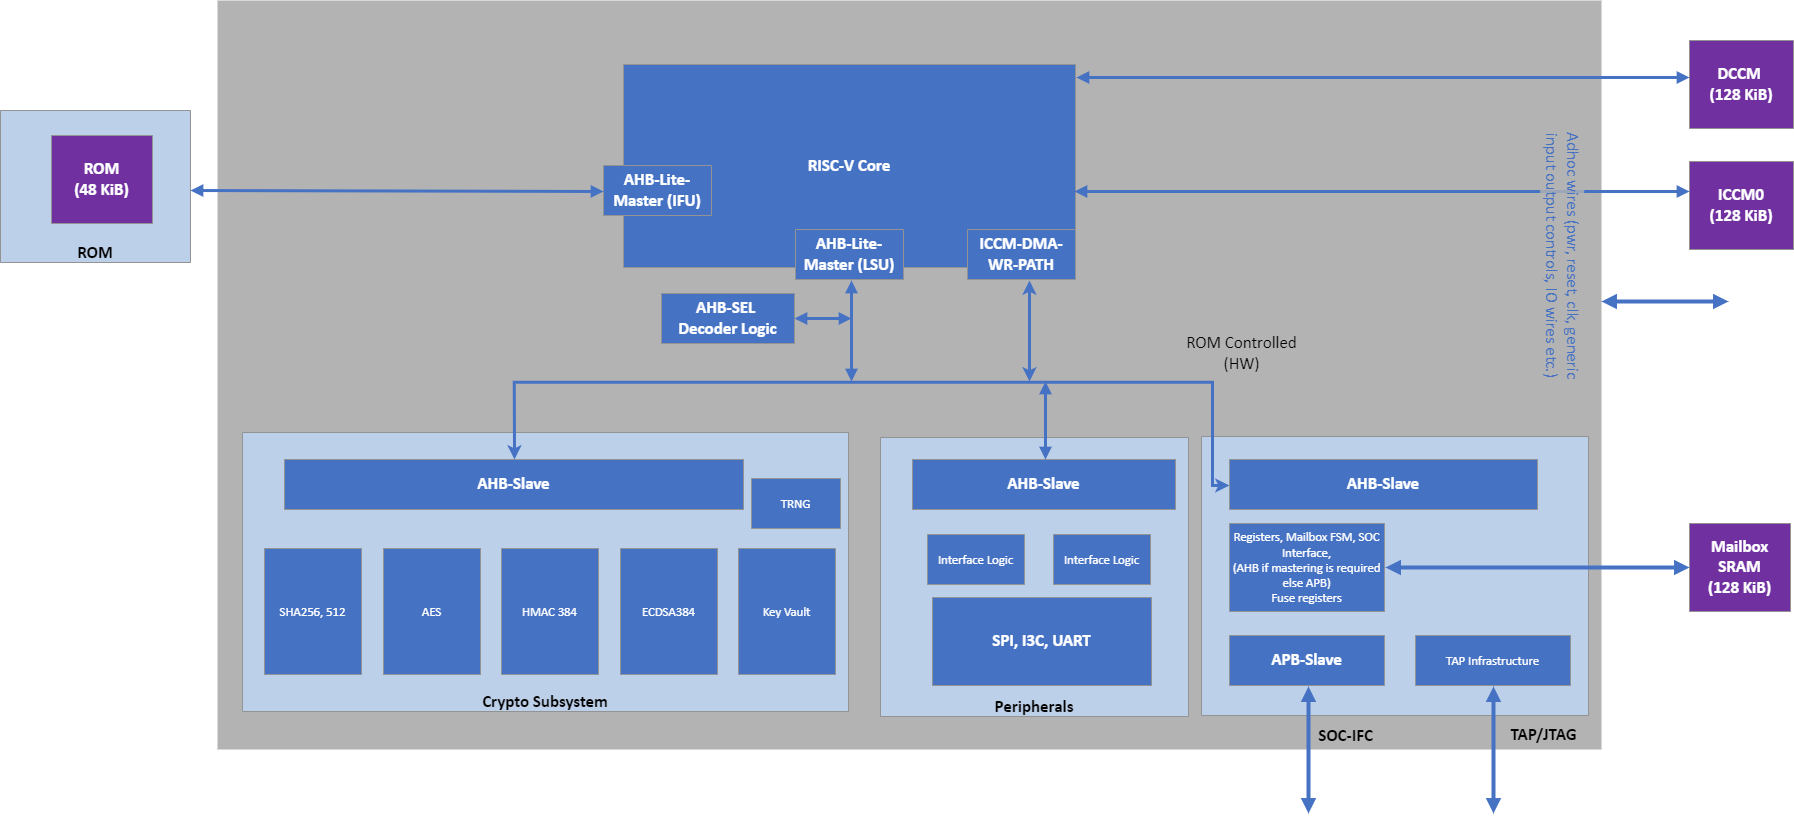
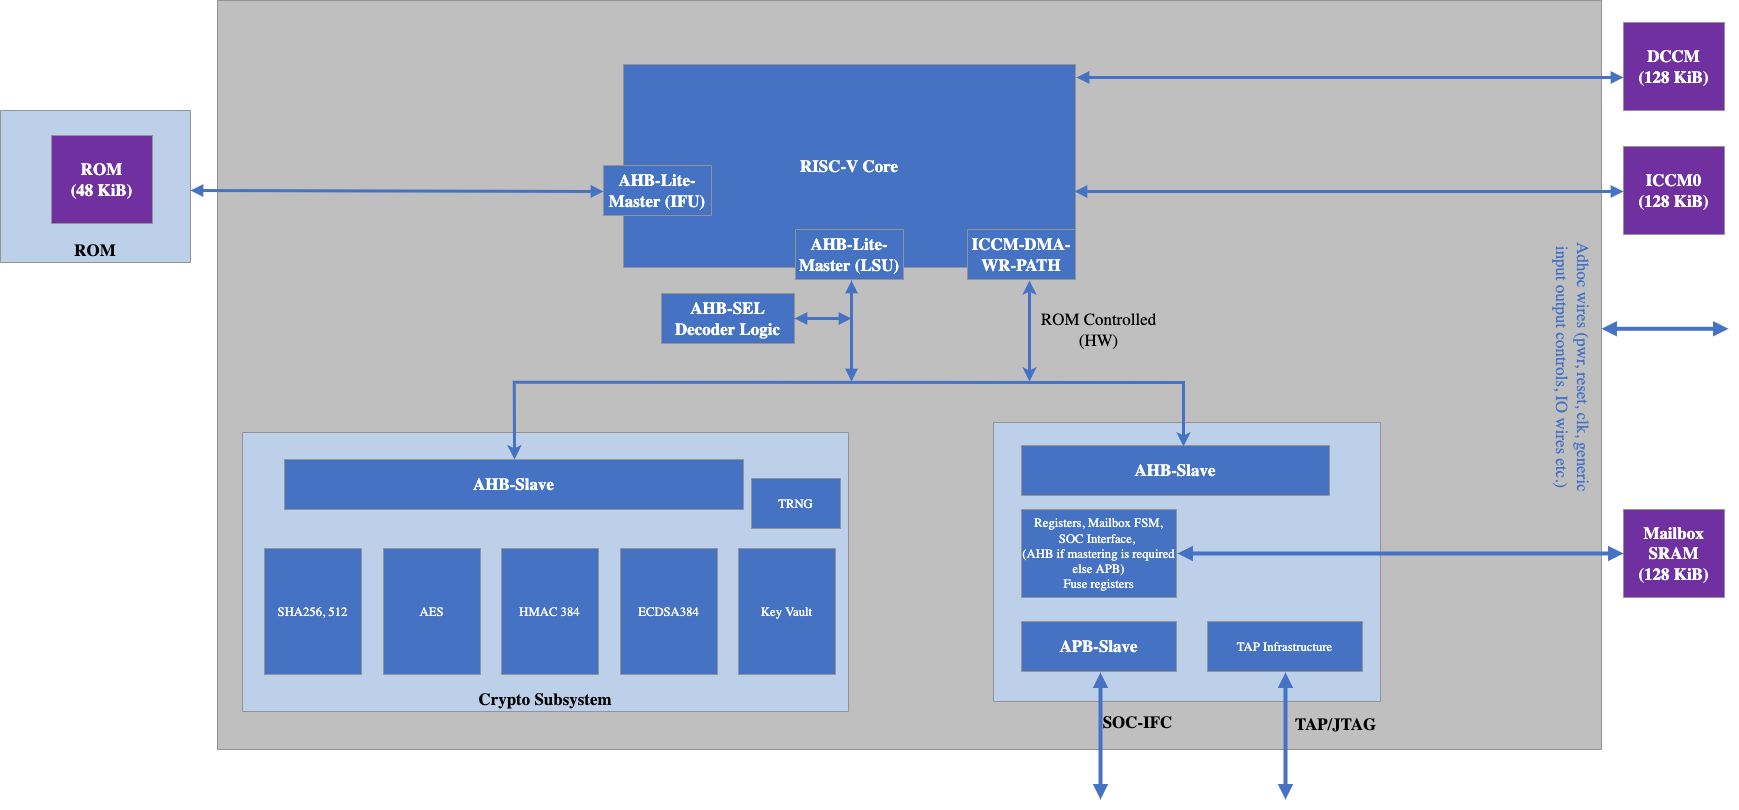
Remove Caliptra profiles for 1.0 (#154)
* Caliptra BMI and subsystem updates

Remove BMI and mark Caliptra subsystem as a future effort

* undo fuse change in 4.3.2

* Rename Boot_flow.png

* Address feedback

* Update Caliptra_HW_diagram.png

fix ROM (32KB) to ROM (48 KiB)
KB to KiB

* Delete BMI_Boot_flow.png

* Update Caliptra.md

add "the"

diff --git a/doc/Caliptra.md b/doc/Caliptra.md
@@ -248,7 +248,7 @@ An example of when an owner must protect assets is moving from secure mode to in
 
 # High level architecture
 
-The following figure shows the basic high-level blocks of the Caliptra subsystem.
+The following figure shows the basic high-level blocks of Caliptra.
 
 *Figure 2: Caliptra high level blocks*
 
@@ -256,41 +256,7 @@ The following figure shows the basic high-level blocks of the Caliptra subsystem
 
 See the [hardware section](#hardware) for a detailed discussion.
 
-## Caliptra profiles
-
-Caliptra supports two physical modes of instantiation, the Caliptra Core and the Caliptra subsystem.  Within Caliptra Core there are two modes of integration with different security postures and firmware loading techniques.
-
-1. Boot Media Integrated (BMI) profile: Caliptra loads its firmware directly from SPI boot media. SoC boot cannot proceed through any other boot media.
-2. Boot Media Dependent (BMD) profile: Caliptra receives its firmware from SoC actors with access to the boot media.
-
-In both profiles, Caliptra is among the first uncore microcontrollers taken out of reset by the power-on reset logic. The difference is in the Trusted Computing Base (TCB) for integrity of the Core RTM. In the BMI profile, this TCB is the Caliptra Core. In the BMD profile, this TCB additionally includes the immutable element of the SoC ROM. The BMD profile trades increased TCB for lower integration cost. The BMD profile does not put Caliptra firmware in the performance-critical or recovery-critical code paths of the SoC boot process.
-
-Caliptra 1.0 only supports the BMD profile.
-
-### <a id="bmi"></a>Caliptra Core - Boot Media Integrated (BMI)
-
-In the BMI profile, Caliptra unilaterally starts the firmware chain-of-trust. The boot process is as follows:
-
-1. Hardware executes SoC power-on reset logic. This logic starts the execution of Caliptra ROM.
-2. Caliptra ROM fetches the Caliptra firmware from SPI boot media.
-3. Caliptra ROM authenticates, measures, loads, and executes Caliptra firmware. Refer to [Error Reporting and Handling](#error-reporting-and-handling) for details regarding FMC verification failures.
-4. Caliptra firmware copies the SoC First Mutable Code (FMC) into the Caliptra mailbox and measures it.
-5. Caliptra firmware signals to SoC ROM to continue the boot process by fetching the firmware from Caliptra's mailbox.
-6. SoC FMC continues the boot process, forming a boot firmware chain-of-trust: each firmware fetches, authenticates, measures, and executes the next firmware needed to establish the device operating environment. Each firmware deposits the next firmware's measurements into Caliptra prior to execution.
-7. Caliptra firmware presents attestation APIs using the deposited measurements.
-
-*Figure 3: Boot Media Integrated boot flow*
-
-![](./images/BMI_Boot_flow.png)
-
-In the BMI profile, the Caliptra TCB for integrity of Core RTM is the Caliptra Core.  The verification of measurement includes:
-
-1. The SoC design ingests firmware through Caliptra.
-2. Caliptra IP, Caliptra ROM, and Caliptra Firmware.
-
-### <a id="bmd"></a>Caliptra Core - Boot Media Dependent (BMD)
-
-In the BMD profile, Caliptra coordinates the start of the firmware chain-of-trust with the immutable component of the SoC ROM. After the Caliptra ROM completes initialization, it provides a "stash measurement" API and callback signals for the SoC ROM to proceed with the boot process. Caliptra ROM supports stashing of at most eight measurements prior to the boot of Caliptra firmware. The SoC then may choose to boot Caliptra firmware. Any security-sensitive code or configuration loaded by the SoC prior to Caliptra firmware boot must be stashed within Caliptra. If the SoC exceeds Caliptra ROM's measurement stash capacity, attestation must be disabled until next cold reset. The boot process is as follows:
+Caliptra is among the first uncore microcontrollers taken out of reset by the power-on reset logic. Caliptra coordinates the start of the firmware chain-of-trust with the immutable component of the SoC ROM. After the Caliptra ROM completes initialization, it provides a "stash measurement" API and callback signals for the SoC ROM to proceed with the boot process. Caliptra ROM supports stashing of at most eight measurements prior to the boot of Caliptra firmware. The SoC then may choose to boot Caliptra firmware. Any security-sensitive code or configuration loaded by the SoC prior to Caliptra firmware boot must be stashed within Caliptra. If the SoC exceeds Caliptra ROM's measurement stash capacity, attestation must be disabled until the next cold reset. The boot process is as follows:
 
 1. Hardware executes SoC power-on reset logic. This logic starts the execution of SoC ROM and Caliptra ROM.
 2. SoC ROM waits for the ready_for_fw signal from Caliptra ROM.
@@ -301,35 +267,20 @@ In the BMD profile, Caliptra coordinates the start of the firmware chain-of-trus
     2. If the FMC is not Caliptra firmware:
         1. SoC ROM measures that firmware as the SoC FMC, and issues the Caliptra "stash measurement" command prior to executing SoC FMC.
 4. SoC ROM executes SoC FMC.
-5. As in #6 from the BMI flow, SoC FMC continues the boot process, forming a boot firmware chain-of-trust: each firmware fetches, authenticates, measures, and executes the next firmware needed to establish the device operating environment. Each firmware deposits the next firmware's measurements into Caliptra prior to execution. The exception is Caliptra's firmware: SoC firmware delegates the measurement and execution of Caliptra's firmware to Caliptra ROM.
+5. SoC FMC continues the boot process, forming a boot firmware chain-of-trust: each firmware fetches, authenticates, measures, and executes the next firmware needed to establish the device operating environment. Each firmware deposits the next firmware's measurements into Caliptra prior to execution. The exception is Caliptra's firmware: SoC firmware delegates the measurement and execution of Caliptra's firmware to Caliptra ROM.
 6. Upon eventual initialization, Caliptra firmware presents attestation APIs using the deposited measurements.
 
 See [Error Reporting and Handling](#error-reporting-and-handling) for details about Caliptra and SoC firmware load and verification error handling.
 
-*Figure 4: Boot Media Dependent boot flow*
+*Figure 3: Caliptra boot flow*
 
-![](./images/BMD_Boot_flow.png)
-
-## Caliptra security subsystem
-
-To enable a transparent and reusable security subsystem, the Caliptra specification includes a full security subsystem solution. This solution is a combination of fully open source digital logic and licensable analog components that are technology dependent, such as TRNG analog sources or technology dependent fuse controllers.
-
-* SoC Controller has configurable SRAMs to allow per SoC firmware customization.
-* SoC reference ROM allows for configurable initialization.
-* Resource handling logic (RHL) brings up subsystem components such as PUF, PLL, Fuse controller, \[P-\]TRNG. etc. RHL processes requests from Caliptra to the outside components (for example, P-TRNG request input to Caliptra’s internal TRNG).
-* Some of the analog components are licensable IPs that are used to build the subsystem (for example, PUF, and PLL).
-
-*Figure 5: Caliptra security subsystem*
-
-![](./images/Caliptra_HW_Block_diagram.png)
-
-The Caliptra subsystem offers a complete RoT subsystem, with open source programmable components for customization of SoC boot flows.
+![](./images/Boot_flow.png)
 
 ## Identity
 
 Caliptra must provide its runtime (RT) code with a cryptographic identity in accordance with the TCG DICE specification. This identity must be rooted in ROM, and provides an attestation over the security state of the RTM as well as the code that the RTM booted.
 
-*Figure 6: DICE Cert/Key generation*
+*Figure 4: DICE Cert/Key generation*
 
 ![](./images/Caliptra_cert_creation.png)
 
@@ -407,7 +358,7 @@ Devices may support features like debug unlock, DFT, or DFD flows that globally 
 
 Caliptra firmware shall be signed by the vendor. In addition, this firmware may also be signed by the owner when ownership control is enforced. If a second signature is present for ownership authorization, Caliptra must extract the owner's public key from the firmware image during cold boot, and latch the owner key into Caliptra's RAM for the remainder of its uptime[^3]. Caliptra then uses both the vendor key and owner key to verify hitless firmware updates.
 
-Caliptra shall attest to the value of the owner key, enabling external verifiers to ensure that the correct owner key was provisioned into the device. To perform this attestation, Caliptra includes the owner key as an input to the FMC's CDI (as part of "other attributes" from Figure 6 above), and represents it within the FMC's alias certificate.
+Caliptra shall attest to the value of the owner key, enabling external verifiers to ensure that the correct owner key was provisioned into the device. To perform this attestation, Caliptra includes the owner key as an input to the FMC's CDI (as part of "other attributes" from Figure 4 above), and represents it within the FMC's alias certificate.
 
 The SoC may support a fuse bank for representing the hash of the owner's public key. If the SoC reports this value to Caliptra, Caliptra refuses to boot firmware unless the firmware was dual-signed by the key reported by SoC ROM's fuse registers.
 
@@ -417,7 +368,7 @@ The owner key, when represented in fuses or in the FMC's alias certificate, is a
 
 ![](./images/Caliptra_manuf_flow1.png)
 
-*Figure 7: Device manufacturing identity flow*
+*Figure 5: Device manufacturing identity flow*
 
 1. High Volume Manufacturing (HVM) programs the IDevID certificate attributes fuses. See [IDevID Certificate](#idevid-certificate) for encodings.
 2. HVM programs NIST compliant UDS into fuses using SoC-specific fuse programming flow. Note that this UDS goes through an obfuscation function within Caliptra IP.
@@ -628,7 +579,7 @@ Caliptra RT generates the DPE certificate and endorses it with the Alias<sub>RT<
 
 ![](./images/Caliptra_security_states.png)
 
-*Figure 8: Caliptra security states*
+*Figure 6: Caliptra security states*
 
 **Definitions**
 
@@ -944,11 +895,11 @@ As shown in *Table 15: POST/CAST usage*, since the cryptographic algorithms requ
 
 Caliptra supports verifying firmware with ECDSA P384 signatures and [Leighton-Micali Hash-based Signatures (LMS)](#post-quantum-cryptography-pqc-requirements) in accordance with the requirements described in [Reference 3](#ref-3).
 
-Caliptra firmware is composed of two images: an FMC image and an application firmware image. A single firmware manifest describes these images. The manifest consists of a preamble (*Table 16*), a header (*Table 17*), and a Table of Contents (TOC) (*Table 18*). The image layout is shown in *Figure 9: firmware image layout*.
+Caliptra firmware is composed of two images: an FMC image and an application firmware image. A single firmware manifest describes these images. The manifest consists of a preamble (*Table 16*), a header (*Table 17*), and a Table of Contents (TOC) (*Table 18*). The image layout is shown in *Figure 7: firmware image layout*.
 
 ![](./images/fw-img-bundle.svg)
 
-*Figure 9: Firmware image layout*
+*Figure 7: Firmware image layout*
 
 To verify the firmware, Caliptra ROM performs the following steps:
 1. Calculates the hash of the vendor public keys in the preamble and compares it against the hash in fuses (key_manifest_pk_hash). If the lifecycle is not "unprovisioned" and the hashes do not match, the boot fails.
@@ -1044,7 +995,7 @@ Firmware signing key rotation shall follow the requirements described in [Refere
 
 The following figure describes the Caliptra Core.
 
-*Figure 10: Caliptra Core block diagram*
+*Figure 8: Caliptra Core block diagram*
 
 ![](./images/Caliptra_HW_diagram.png)
 
@@ -1065,25 +1016,23 @@ The following figure describes the Caliptra Core.
 
 The following figure describes the Caliptra IP HW boot flow.
 
-*Figure 11: Hardware boot flow*
+*Figure 9: Hardware boot flow*
 
 ![](./images/Caliptra_boot_flow2.png)
 
 1. As part of the SoC boot flow, SoC may have other infrastructure and entities that boot. That part of the flow is outside the scope of this document. If SoC chooses to bypass Caliptra, then it should have a capability to bypass Caliptra entirely through its proprietary flow. This may be needed for initial power-on and other early validation.
 2. Cptra\_pwrgood is asserted to the Caliptra IP block.
 3. Cptra\_rst\_b is deasserted to the Caliptra IP block. See the integration specification for guidelines on the minimum number of cycles between these two signals.
-4. Caliptra IP now evaluates the strap settings driven through various interface wires (for example, BMD vs BMI mode, the security or debug state of the SoC, etc.).
+4. Caliptra IP now evaluates the strap settings driven through various interface wires (for example, the security or debug state of the SoC).
 5. If SoC is in a debug mode, then security assets are cleared or switched to debug mode.
 6. Caliptra IP asserts Ready\_For\_Fuse wire to the SoC.
 7. The SoC populates the fuse registers, the internal TRNG configuration registers, and the ROM WDT cycle count, then sets the CPTRA\_FUSE\_WR\_DONE bit. Note that Caliptra HW drops writes to any registers that cannot be changed unless there is a power cycle (for example, UDS). So SoC is free to write all the registers.
 8. Caliptra IP deasserts Ready\_for\_Fuse wire as soon as the fuse write done register is written.
 9. Caliptra IP moves security critical assets in fuse registers (for example, UDS) to the key vault.
 
-## Boot Media Dependent flows
+## Caliptra FW push flow
 
-### Caliptra FW push flow
-
-*Figure 12: FW push flow*
+*Figure 10: FW push flow*
 
 ![](./images/Caliptra_boot_flow3.png)
 
@@ -1094,21 +1043,9 @@ The following figure describes the Caliptra IP HW boot flow.
 5. Caliptra’s mailbox HW  asserts an interrupt to the microcontroller after the GO is written, per mailbox protocol. See [Mailbox](#mailbox) for specifics.
 6. After Caliptra’s FW is authenticated and loaded into ICCM, microcontroller runs the firmware and asserts READY\_FOR\_RTFLOWS wire.
 
-## Boot Media Integrated
+## <a id="reset-flow"></a>CPU warm reset or PCIe hot reset flow →  Caliptra IP reset
 
-### Caliptra FW load flow
-
-*Figure 13: FW load flow*
-
-![](./images/Caliptra_boot_flow4.png)
-
-1. After the Caliptra microcontroller is out of reset, ROM starts executing and triggers the crypto block to run the UDS decrypt flow.
-2. Caliptra ROM uses the internal SPI peripheral to read from the platform's persistent storage and load the FW. Note that SPI is operating in basic functional single-IO mode and at 20 MHz frequency.
-3. After Caliptra’s FW is authenticated and loaded into ICCM, microcontroller runs the firmware and asserts READY\_FOR\_RTFLOWS wire.
-
-### <a id="reset-flow"></a>CPU warm reset or PCIe hot reset flow →  Caliptra IP reset
-
-*Figure 14: Hardware reset flow*
+*Figure 11: Hardware reset flow*
 
 ![](./images/Caliptra_boot_flow5.png)
 
@@ -1160,7 +1097,7 @@ Mailboxes are generic data passing structures, and the Caliptra hardware only en
 **Notes on behavior:**
 After LOCK is granted, the mailbox is locked until that device has concluded its operation. The mailbox is responsible only for accepting writes from the device that requested and locked the mailbox.
 
-*Figure 15: Mailbox sender flow*
+*Figure 12: Mailbox sender flow*
 
 ![](./images/Caliptra_mbox_state.png)
 
@@ -1182,7 +1119,7 @@ Upon receiving an indication that the mailbox is populated, the appropriate devi
     1. If response data was provided, STATUS should be written to DATA\_READY.
     2. Otherwise, STATUS should be written to CMD\_COMPLETE (or CMD\_FAILURE).
 
-*Figure 16: Mailbox receiver flow*
+*Figure 13: Mailbox receiver flow*
 
 ![](./images/Caliptra_mbox_sequence.png)
 
@@ -1203,7 +1140,7 @@ Caliptra provides a HW API to do a SHA384 hash calculation. The SoC can access t
 
 ### JTAG/TAP debug
 
-*Figure 17: Debug flow*
+*Figure 14: Debug flow*
 
 ![](./images/Caliptra_boot_flow6.png)
 
@@ -1323,6 +1260,21 @@ This section describes Caliptra error reporting and handling.
 **Firmware errors**
 
 Please refer to [the Caliptra code base](https://github.com/chipsalliance/caliptra-sw/blob/main/error/src/lib.rs) for a list of the error codes.
+
+# Future effort: Caliptra security subsystem
+
+A future effort is a full security subsystem solution. This solution is a combination of fully open source digital logic and licensable analog components that are technology dependent, such as TRNG analog sources or technology dependent fuse controllers.
+
+* SoC Controller has configurable SRAMs and reference firmware.
+* SoC reference ROM allows for configurable initialization.
+* Resource handling logic (RHL) brings up subsystem components such as PUF, PLL, Fuse controller, \[P-\]TRNG. etc. RHL processes requests from Caliptra to the outside components (for example, P-TRNG request input to Caliptra’s internal TRNG).
+* Some of the analog components are licensable IPs that are used to build the subsystem (for example, PUF, and PLL).
+
+*Figure 15: Caliptra security subsystem*
+
+![](./images/Caliptra_HW_Block_diagram.png)
+
+The Caliptra subsystem offers a complete RoT subsystem, with open source programmable components for customization of SoC boot flows.
 
 # Terminology
 
